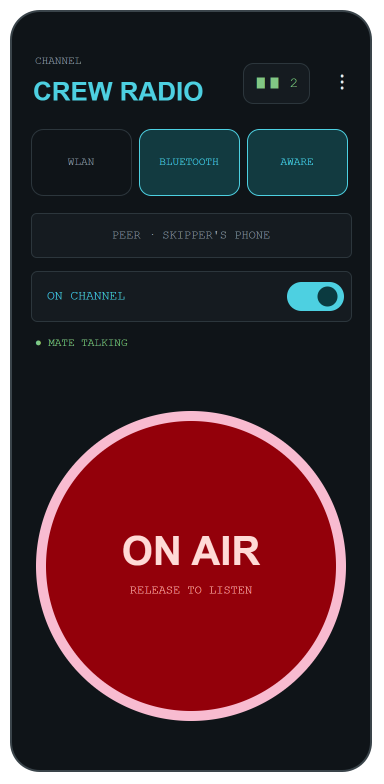
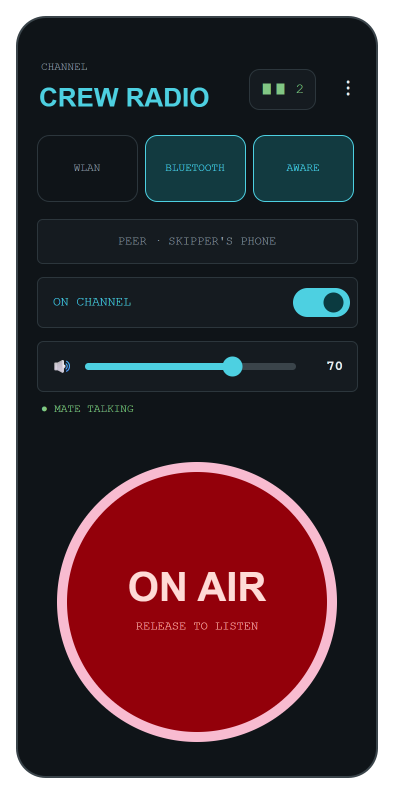
Volume row: the phone's call volume as a slider on the main screen, with a mute
On channel the volume keys are a talk key, so the level of the others had no control.
A row above the talk disc now carries a speaker glyph, a slider and the step number.

The slider is the phone's own call volume (audio/CallVolume): playback has the
voice-communication usage, so it sets the voice-call stream, the one the keys move
in a phone call and a Bluetooth headset's buttons move over HFP, in the phone's own
steps (the SCO stream while a headset carries the audio on Android 13 and below).
It follows the system's volume-changed broadcast, so a headset button moves it too.

The stream has a floor of 1 and cannot be muted by an app, so the glyph is the app's
own mute: a gain of 0 on the summed speech in the mixer, cue tones added after it, so
a muted phone still hears its key beeps. Session state, cleared on leaving the channel;
shown as ON CHANNEL · MUTED on the channel row and "muted" in the notification title.
The Status screen lists the call volume. Docs and the generated mock-ups updated.

Tested on the Nokia 7.2, S20 FE and S25.

diff --git a/app/src/main/java/fi/crewradio/MainActivity.kt b/app/src/main/java/fi/crewradio/MainActivity.kt
@@ -5,8 +5,10 @@ import android.annotation.SuppressLint
 import android.bluetooth.BluetoothDevice
 import android.bluetooth.BluetoothManager
 import android.content.ComponentName
+import android.content.BroadcastReceiver
 import android.content.Context
 import android.content.Intent
+import android.content.IntentFilter
 import android.content.ServiceConnection
 import android.content.pm.PackageManager
 import android.content.res.ColorStateList
@@ -32,6 +34,8 @@ import androidx.core.app.ActivityCompat
 import androidx.core.content.ContextCompat
 import com.google.android.material.button.MaterialButton
 import com.google.android.material.materialswitch.MaterialSwitch
+import com.google.android.material.slider.Slider
+import fi.crewradio.audio.CallVolume
 import fi.crewradio.transport.BluetoothTransport
 import fi.crewradio.transport.LanTransport
 import fi.crewradio.transport.Transport
@@ -43,8 +47,8 @@ import fi.crewradio.transport.WifiAwareTransport
  * interrupts a running session.
  *
  * The "Radio" layout, top to bottom: channel header (crew name, how many aboard, menu),
- * three transport tiles, a strip with the Bluetooth peer and Connect, a card with the
- * status line and the crew, and the talk disc taking every pixel that is left. Settings
+ * three transport tiles, a strip with the Bluetooth peer, the channel switch, the playback
+ * volume (an in-app gain with a mute), and the talk disc taking every pixel that is left. Settings
  * is behind the menu. Everything the user touches is at least 44 dp; the disc is
  * about 90% of the screen width.
  */
@@ -61,6 +65,15 @@ class MainActivity : AppCompatActivity() {
     private lateinit var pttButton: MaterialButton
     private lateinit var channelRow: View
     private lateinit var channelState: TextView
+    private lateinit var muteButton: ImageButton
+    private lateinit var volumeSlider: Slider
+    private lateinit var volumeValue: TextView
+    private lateinit var callVolume: CallVolume
+    private var syncingVolume = false
+    /** A headset button or the phone's own panel moved the level: follow it. */
+    private val volumeChanged = object : BroadcastReceiver() {
+        override fun onReceive(context: Context, intent: Intent) { renderVolume() }
+    }
     private lateinit var channelSwitch: MaterialSwitch
     private var syncingSwitch = false                  // true while syncUi() moves the switch itself
     private lateinit var peerButton: TextView
@@ -113,6 +126,9 @@ class MainActivity : AppCompatActivity() {
         pttButton = findViewById(R.id.pttButton)
         channelRow = findViewById(R.id.channelRow)
         channelState = findViewById(R.id.channelState)
+        muteButton = findViewById(R.id.muteButton)
+        volumeSlider = findViewById(R.id.volumeSlider)
+        volumeValue = findViewById(R.id.volumeValue)
         channelSwitch = findViewById(R.id.channelSwitch)
         peerButton = findViewById(R.id.peerButton)
         menuButton = findViewById(R.id.menuButton)
@@ -171,6 +187,23 @@ class MainActivity : AppCompatActivity() {
             }
         }
 
+        // Volume: the slider is the phone's call volume, what the volume keys would set in a call
+        // (on channel they are a talk key); the mute is session state, the engine's, cleared on leaving.
+        callVolume = CallVolume(this)
+        volumeSlider.addOnChangeListener { _, value, fromUser ->
+            if (!fromUser || syncingVolume) return@addOnChangeListener
+            callVolume.set(callVolume.stream(engine?.bluetoothHeadsetNow == true), value.toInt())
+            renderVolume()
+        }
+        muteButton.setOnClickListener {
+            val e = engine ?: return@setOnClickListener
+            if (!e.isConnected) return@setOnClickListener
+            it.performHapticFeedback(HapticFeedbackConstants.CONTEXT_CLICK)
+            e.muted = !e.muted
+            service?.refreshNotification()
+            syncUi()
+        }
+
         pttButton.setOnTouchListener { v, ev ->
             val e = engine ?: return@setOnTouchListener false
             if (e.mode == PttEngine.Mode.HALF_DUPLEX) {
@@ -206,6 +239,8 @@ class MainActivity : AppCompatActivity() {
     /** Binds while visible; BIND_AUTO_CREATE means the service (and its senderId) exists whenever the UI is up. */
     override fun onStart() {
         super.onStart()
+        // A protected system broadcast: only the system can send it, so exporting the receiver exposes nothing.
+        ContextCompat.registerReceiver(this, volumeChanged, IntentFilter(CallVolume.VOLUME_CHANGED_ACTION), ContextCompat.RECEIVER_EXPORTED)
         bindService(Intent(this, PttService::class.java), connection, Context.BIND_AUTO_CREATE)
     }
 
@@ -222,6 +257,7 @@ class MainActivity : AppCompatActivity() {
         service?.statusListener = null
         service?.rosterListener = null
         service = null
+        unregisterReceiver(volumeChanged)
         unbindService(connection)   // the service keeps running while connected; see PttService
         super.onStop()
     }
@@ -275,11 +311,13 @@ class MainActivity : AppCompatActivity() {
      */
     private fun syncUi() {
         val connected = engine?.isConnected == true
+        val muted = connected && engine?.muted == true
         syncingSwitch = true
         channelSwitch.isChecked = connected
         syncingSwitch = false
-        channelState.text = getString(if (connected) R.string.channel_on else R.string.channel_off)
-        channelState.setTextColor(ContextCompat.getColor(this, if (connected) R.color.primary else R.color.text_dim))
+        channelState.text = getString(if (muted) R.string.channel_on_muted else if (connected) R.string.channel_on else R.string.channel_off)
+        channelState.setTextColor(ContextCompat.getColor(this, if (muted) R.color.error else if (connected) R.color.primary else R.color.text_dim))
+        renderVolume()
         for (tile in tiles) tile.root.alpha = if (connected) 0.55f else 1f
         peerButton.alpha = if (connected) 0.55f else 1f
         // The screen stays on only while on channel, and only if the user wants it to.
@@ -316,6 +354,33 @@ class MainActivity : AppCompatActivity() {
         pttButton.backgroundTintList = ColorStateList.valueOf(ContextCompat.getColor(this, if (live) R.color.on_air else R.color.primary))
         pttButton.setTextColor(ContextCompat.getColor(this, if (live) R.color.on_air_text else R.color.on_primary))
         pttButton.strokeColor = ColorStateList.valueOf(ContextCompat.getColor(this, if (live) R.color.error else R.color.outline))
+    }
+
+    /**
+     * The volume row: the slider shows the call volume of the stream in use (the Bluetooth
+     * headset's while it carries the audio), in the phone's own steps, and the number is the
+     * step. The mute glyph exists only on channel, so off channel it is dimmed.
+     */
+    private fun renderVolume() {
+        val connected = engine?.isConnected == true
+        val muted = connected && engine?.muted == true
+        val stream = callVolume.stream(engine?.bluetoothHeadsetNow == true)
+        val min = callVolume.min(stream)
+        val max = maxOf(callVolume.max(stream), min + 1)
+        val level = callVolume.get(stream).coerceIn(min, max)
+        syncingVolume = true
+        volumeSlider.valueFrom = min.toFloat()
+        volumeSlider.valueTo = max.toFloat()
+        volumeSlider.value = level.toFloat()
+        syncingVolume = false
+        muteButton.setImageResource(if (muted) R.drawable.ic_volume_off else R.drawable.ic_volume)
+        muteButton.imageTintList = ColorStateList.valueOf(ContextCompat.getColor(this, if (muted) R.color.error else R.color.secondary))
+        muteButton.contentDescription = getString(if (muted) R.string.volume_unmute else R.string.volume_mute)
+        muteButton.alpha = if (connected) 1f else 0.55f
+        volumeValue.text = if (muted) getString(R.string.volume_muted_value) else level.toString()
+        volumeValue.setTextColor(ContextCompat.getColor(this, if (muted) R.color.error else R.color.text))
+        volumeSlider.thumbTintList = ColorStateList.valueOf(ContextCompat.getColor(this, if (muted) R.color.text_dim else R.color.primary))
+        volumeSlider.trackActiveTintList = ColorStateList.valueOf(ContextCompat.getColor(this, if (muted) R.color.dot_idle else R.color.primary))
     }
 
     /**

diff --git a/app/src/main/java/fi/crewradio/audio/Mixer.kt b/app/src/main/java/fi/crewradio/audio/Mixer.kt
@@ -39,6 +39,15 @@ class Mixer(private val playback: AudioPlayback = AudioPlayback()) {
     /** Output silence (queues keep draining) - the channel is on hold behind a phone call. */
     @Volatile var muted = false
 
+    /**
+     * Gain on the summed speech, 0..1: the user's mute is 0 (the level itself is the phone's call
+     * volume, see [CallVolume]). Cue tones are added after it, so a muted phone still hears its
+     * own key beeps.
+     */
+    @Volatile var gain = 1f
+        set(value) { field = value.coerceIn(0f, 1f); gainQ15 = (field * 32768f).toInt() }
+    @Volatile private var gainQ15 = 32768
+
     private val prefillFrames = 2     // 40 ms before a new stream starts draining
     private val maxQueuedFrames = 10  // 200 ms cap; drop oldest beyond this
     private val idleTimeoutNs = 1_000_000_000L
@@ -58,13 +67,6 @@ class Mixer(private val playback: AudioPlayback = AudioPlayback()) {
                 acc.fill(0)
                 var active = 0
                 val now = System.nanoTime()
-                val cue = synchronized(cues) { cues.pollFirst() }
-                if (cue != null) {
-                    active++
-                    for (i in 0 until AudioConfig.FRAME_SAMPLES) {
-                        acc[i] += (cue[2 * i + 1].toInt() shl 8) or (cue[2 * i].toInt() and 0xFF)
-                    }
-                }
                 for ((id, st) in streams) {
                     val frame = synchronized(st) { nextFrame(st, now) }
                     if (frame != null) {
@@ -78,6 +80,16 @@ class Mixer(private val playback: AudioPlayback = AudioPlayback()) {
                         }
                     } else if (now - st.lastSeen > idleTimeoutNs) {
                         streams.remove(id)
+                    }
+                }
+                // The user's volume scales the speech only; the cue is the phone's own voice, added at full level.
+                val g = gainQ15
+                if (active > 0 && g != 32768) for (i in 0 until AudioConfig.FRAME_SAMPLES) acc[i] = ((acc[i].toLong() * g) shr 15).toInt()
+                val cue = synchronized(cues) { cues.pollFirst() }
+                if (cue != null) {
+                    active++
+                    for (i in 0 until AudioConfig.FRAME_SAMPLES) {
+                        acc[i] += (cue[2 * i + 1].toInt() shl 8) or (cue[2 * i].toInt() and 0xFF)
                     }
                 }
                 if (active == 0 || muted) {

diff --git a/app/src/main/java/fi/crewradio/audio/CallVolume.kt b/app/src/main/java/fi/crewradio/audio/CallVolume.kt
@@ -1,0 +1,39 @@
+package fi.crewradio.audio
+
+import android.content.Context
+import android.media.AudioManager
+import android.os.Build
+
+/**
+ * The phone's own call volume, which is what the session plays on: the [AudioPlayback] track has
+ * `USAGE_VOICE_COMMUNICATION`, so it sits on the voice-call stream, the one the volume keys move
+ * during a phone call and a Bluetooth headset's buttons move over HFP. The main screen's slider
+ * sets it directly, because on channel the volume keys are a talk key and cannot.
+ *
+ * The stream has a floor (1 on every phone seen) and cannot be muted by an app, so the true mute
+ * stays in the [Mixer]. Until Android 13 a Bluetooth headset's SCO link has a stream of its own
+ * (`STREAM_BLUETOOTH_SCO`, hidden); Android 14 folded it into the voice-call stream.
+ */
+class CallVolume(context: Context) {
+    private val am = context.getSystemService(Context.AUDIO_SERVICE) as AudioManager
+
+    /** The stream in use: the voice-call stream, or the SCO stream while a Bluetooth headset carries the call on Android 13 and below. */
+    fun stream(bluetoothHeadset: Boolean): Int =
+        if (bluetoothHeadset && Build.VERSION.SDK_INT < Build.VERSION_CODES.UPSIDE_DOWN_CAKE) STREAM_BLUETOOTH_SCO else AudioManager.STREAM_VOICE_CALL
+
+    fun min(stream: Int): Int = try { am.getStreamMinVolume(stream) } catch (_: Exception) { 0 }
+    fun max(stream: Int): Int = try { am.getStreamMaxVolume(stream) } catch (_: Exception) { 1 }
+    fun get(stream: Int): Int = try { am.getStreamVolume(stream) } catch (_: Exception) { 0 }
+
+    /** Sets the level silently (no system volume panel); clamped to the stream's range. */
+    fun set(stream: Int, index: Int) {
+        try { am.setStreamVolume(stream, index.coerceIn(min(stream), max(stream)), 0) } catch (_: Exception) {}
+    }
+
+    companion object {
+        /** `AudioManager.STREAM_BLUETOOTH_SCO`, hidden in the SDK; the value has never changed. */
+        const val STREAM_BLUETOOTH_SCO = 6
+        /** Sent by the system when any stream's level changes (a headset button, the phone's own panel). Not in the SDK; used by every volume widget. */
+        const val VOLUME_CHANGED_ACTION = "android.media.VOLUME_CHANGED_ACTION"
+    }
+}

diff --git a/app/src/main/java/fi/crewradio/PttService.kt b/app/src/main/java/fi/crewradio/PttService.kt
@@ -292,6 +292,11 @@ class PttService : Service() {
 
     // ---- foreground notification -------------------------------------------------
 
+    /** Re-posts the notification after something it shows (the mute) changed outside the engine's own callbacks. */
+    fun refreshNotification() {
+        if (engine.isConnected) showForeground(lastStatus)
+    }
+
     /** (Re)posts the foreground notification. Re-calling startForeground is the documented way to update it. */
     private fun showForeground(text: String) {
         ServiceCompat.startForeground(this, NOTIFICATION_ID, buildNotification(text), foregroundTypes())
@@ -319,7 +324,9 @@ class PttService : Service() {
             flags
         )
         val online = lastRoster.size
-        val title = getString(R.string.notification_title) + if (online > 0) " · $online online" else ""
+        val title = getString(R.string.notification_title) +
+            (if (online > 0) " · $online online" else "") +
+            (if (engine.muted) " · " + getString(R.string.notification_muted) else "")
         return NotificationCompat.Builder(this, CHANNEL_ID)
             .setSmallIcon(R.drawable.ic_ptt)
             .setContentTitle(title)

diff --git a/app/src/main/java/fi/crewradio/PttEngine.kt b/app/src/main/java/fi/crewradio/PttEngine.kt
@@ -346,6 +346,17 @@ class PttEngine(
     /** Where the voice is going right now, for the Status screen. */
     val audioRouteNow: String get() = route.current
     private val mixer = Mixer()
+
+    /**
+     * The user's mute: received speech is silenced in the mixer (a gain of 0), the cue tones stay,
+     * and no system stream is touched. Session state: cleared when the phone leaves the channel.
+     * The level itself is the phone's call volume, set by the main screen's slider ([CallVolume]).
+     */
+    var muted = false
+        set(v) { field = v; mixer.gain = if (v) 0f else 1f }
+
+    /** True while a Bluetooth headset carries the audio; the slider picks its stream by it. */
+    val bluetoothHeadsetNow: Boolean get() = route.bluetoothHeadset
     private val transports = CopyOnWriteArrayList<Transport>()
     private var capture: AudioCapture? = null
     @Volatile private var encoder: OpusEncoder? = null
@@ -471,6 +482,7 @@ class PttEngine(
         CallBridge.listener = null
         mixer.muted = false
         held = false
+        muted = false
     }
 
     fun stats(): Stats = counters.snapshot(mixer.concealedFrames.get())

diff --git a/app/src/main/java/fi/crewradio/StatusActivity.kt b/app/src/main/java/fi/crewradio/StatusActivity.kt
@@ -113,6 +113,9 @@ class StatusActivity : AppCompatActivity() {
                 Prefs.ROUTE_EARPIECE -> "Earpiece"
                 else -> "Headset or speaker"
             }))
+            val cv = fi.crewradio.audio.CallVolume(this)
+            val stream = cv.stream(e?.bluetoothHeadsetNow == true)
+            rows.addView(kv("CALL VOLUME", "${cv.get(stream)} / ${cv.max(stream)}" + (if (on && e?.muted == true) " · muted" else "")))
             rows.addView(kv("HOP LIMIT", prefs.hops.toString()))
             rows.addView(kv("VERSION", "${BuildConfig.VERSION_NAME} · ${BuildConfig.GIT_SHA}"))
             val peak = e?.micPeakNow ?: -1

diff --git a/docs/diagrams/make_diagrams.py b/docs/diagrams/make_diagrams.py
@@ -128,9 +128,17 @@ def main_screen(p, x, y, state, peers="2", peer_row=True, bt=True):
     n.append(rect(p + "sw", x + 20, row_y, 320, 50))
     n.append(txt(p + "swl", "ON CHANNEL" if on else "OFF · TAP TO JOIN", x + 36, row_y + 8, 200, 34, 13, (CYAN if on else MUTED), spacing=1))
     n += toggle(p + "sw", x + 276, row_y + 11, on)
+    # Playback volume row: mute glyph, slider, number.
+    vol_y = row_y + 64
+    n.append(rect(p + "vr", x + 20, vol_y, 320, 50))
+    n.append(txt(p + "vi", "🔊", x + 30, vol_y + 10, 30, 30, 16, TEXT, align="center", mono=False))
+    n.append(rect(p + "vt", x + 68, vol_y + 22, 210, 6, fill="#3A444A", stroke="#3A444A", arc=50))
+    n.append(rect(p + "vf", x + 68, vol_y + 22, 147, 6, fill=CYAN, stroke=CYAN, arc=50))
+    n.append((p + "vk", "", x + 205, vol_y + 15, 20, 20, f"ellipse;whiteSpace=wrap;html=1;fillColor={CYAN};strokeColor=none;"))
+    n.append(txt(p + "vv", "70", x + 286, vol_y + 12, 40, 26, 14, TEXT, bold=True, align="right"))
     if state == "air":
-        n.append(txt(p + "tk", "● MATE TALKING", x + 24, row_y + 62, 300, 20, 11, TALKING, spacing=2))
-    cx, cy, r = x + 180, y + 555, 150
+        n.append(txt(p + "tk", "● MATE TALKING", x + 24, vol_y + 58, 300, 20, 11, TALKING, spacing=2))
+    cx, cy, r = x + 180, y + 585, 135
     if state == "air":
         n.append((p + "d", "", cx - r, cy - r, 2 * r, 2 * r, f"ellipse;whiteSpace=wrap;html=1;fillColor={ON_AIR};strokeColor={ON_AIR_RING};strokeWidth=10;"))
         n.append(txt(p + "d1", "ON AIR", cx - r, cy - 40, 2 * r, 50, 40, "#FFDAD6", bold=True, align="center", mono=False))

diff --git a/README.md b/README.md
@@ -59,7 +59,12 @@ no account, no internet, no subscription. Connecting people, with what is in the
    shows who else is there, and the notification says what the links are doing.
 4. **Talk.** Hold the big disc. It turns red, *ON AIR*, and everyone hears you. Let go to
    listen. While someone else talks, their name appears in green above the disc.
-5. **Leave.** Tap the switch row again, or *Disconnect* in the notification. Closing the app's
+5. **Volume.** The slider above the disc is the phone's call volume, the level the volume keys
+   would set during a phone call (on the channel they are a talk key instead) and the one a
+   Bluetooth headset's own buttons move. The speaker glyph at its left mutes the others
+   (the row reads *ON CHANNEL · MUTED*, the notification says *muted*); the mute is the app's
+   own and is cleared when you leave the channel.
+6. **Leave.** Tap the switch row again, or *Disconnect* in the notification. Closing the app's
    window does not leave the channel; that is on purpose, so it survives in a pocket.
 
 <img src="docs/images/screen-main.png" alt="Main screen" width="220"> <img src="docs/images/screen-on-air.png" alt="On air" width="220">
@@ -71,7 +76,7 @@ while you are on the channel; pick them under **Settings › Talking**.
 
 | Way | What to do | Notes |
 | --- | --- | --- |
-| **Phone volume keys** | Press once: mic on. Press again: mic off. | Works with the screen off. A held key counts as one press. Volume keys do nothing else while on the channel. |
+| **Phone volume keys** | Press once: mic on. Press again: mic off. | Works with the screen off. A held key counts as one press. Volume keys do nothing else while on the channel: the call volume is the slider on the main screen. |
 | **Headset button** | Click: mic on/off. Hold: talk while held. | Wired headsets always. Many Bluetooth hands-free headsets do *not* pass their button to apps while their microphone link is up (that is how the headset works, not the app); use your voice with those. |
 | **Your voice** | Just speak. | *Voice keys the mic* (Settings › Talking). With a Bluetooth headset: on air within 40 ms of speaking, off 1.5 s after you stop, silent while the headset is muted. On the phone itself it is always on while the phone is at your ear (see below). |
 | **Phone at your ear** | Lift the phone to your ear like a call and speak. | The sound moves to the earpiece, the screen goes dark so your cheek cannot press anything, and your voice keys the mic. Put it down and it is a loudspeaker with a button again. Setting *Phone at the ear* turns this off if the sensor misfires in a pocket or under spray. |

diff --git a/CLAUDE.md b/CLAUDE.md
@@ -87,6 +87,15 @@ MainActivity -(bind)-> PttService -> PttEngine -> Transport (LanTransport | Blue
   audio: `SeqTracker` (pure, wrap-aware, tested) admits each frame and reports the gap, the engine
   reserves that many slots in the mixer atomically with the admission, and the mixer fills them,
   and any queue that runs dry mid-talk, with the last frame fading over at most three slots.
+- Volume row (main screen, above the disc: mute glyph, slider, step number). The slider is the
+  phone's call volume through `audio/CallVolume`: the voice-call stream (playback is
+  `USAGE_VOICE_COMMUNICATION`), or the hidden SCO stream 6 while a Bluetooth headset carries the
+  audio on API < 34, in the stream's own steps (min 1, so the stream cannot mute); it follows
+  `android.media.VOLUME_CHANGED_ACTION` so a headset button moves it too. On channel the volume
+  keys are a talk key, which is why the slider exists. The mute is the app's own: `PttEngine.muted`
+  sets `Mixer.gain` to 0 on the summed speech before the cue tones are added (a muted phone still
+  hears its key beeps); session state, cleared by `disconnect()`, shown as "ON CHANNEL · MUTED" on
+  the channel row and "muted" in the notification title.
 - Audio routing: `audio/AudioRoute` owns `AudioManager.mode` for the session and picks the
   communication device: Bluetooth SCO headset, else wired/USB headset, else speakerphone
   (`setCommunicationDevice` on API 31+, `startBluetoothSco`/`isSpeakerphoneOn` below). It

diff --git a/docs/ARCHITECTURE.md b/docs/ARCHITECTURE.md
@@ -36,7 +36,14 @@ echo cancellation and noise suppression), the AOSP Opus codec through `MediaCode
   back to raw PCM and says so.
 - `Mixer` keeps a small jitter queue per talker (two frames of pre-fill, ten at most), sums the
   queues into one stream on its own thread, and paces itself on the blocking `AudioTrack`
-  write. It also plays cue tones (`Tones`) on top of whatever is sounding.
+  write. It also plays cue tones (`Tones`) on top of whatever is sounding. The main screen's
+  mute is a gain of 0 on the summed speech, with the cue tones added after it, so a muted phone
+  still hears its own key beeps; it is engine state, cleared on disconnect. The level itself is
+  the phone's call volume (`CallVolume`): the track has `USAGE_VOICE_COMMUNICATION`, so the
+  slider sets the voice-call stream, or the SCO stream while a Bluetooth headset carries the
+  audio on Android 13 and below, in the phone's own steps, and follows the system's
+  volume-changed broadcast when a headset button moves it. The volume keys cannot do this on
+  channel, since they are a talk key there.
 - Loss concealment lives in the mixer, not the codec, because `MediaCodec` cannot ask the AOSP
   Opus decoder for it (an empty input buffer yields empty output). `Conceal` repeats the last
   frame with decaying gain (0.6ⁿ) for at most three missing slots, then silence. The engine
